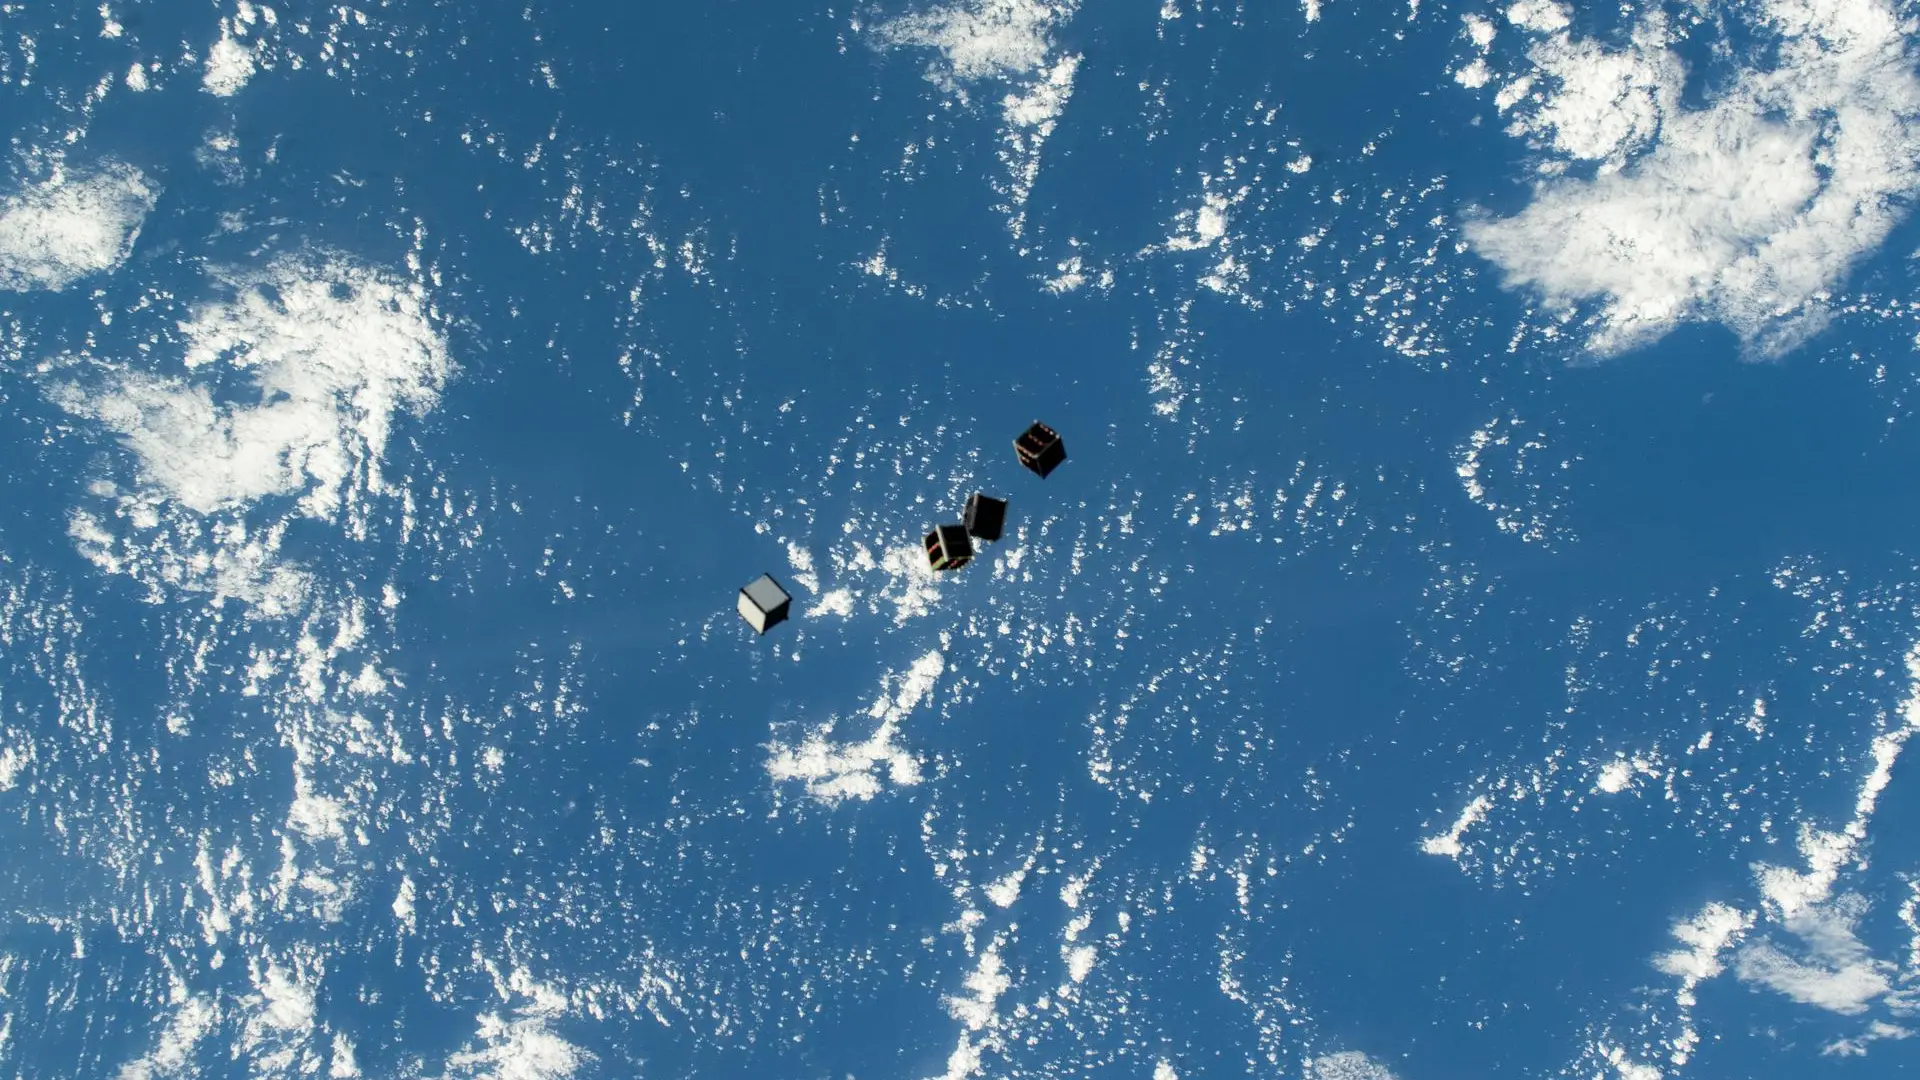
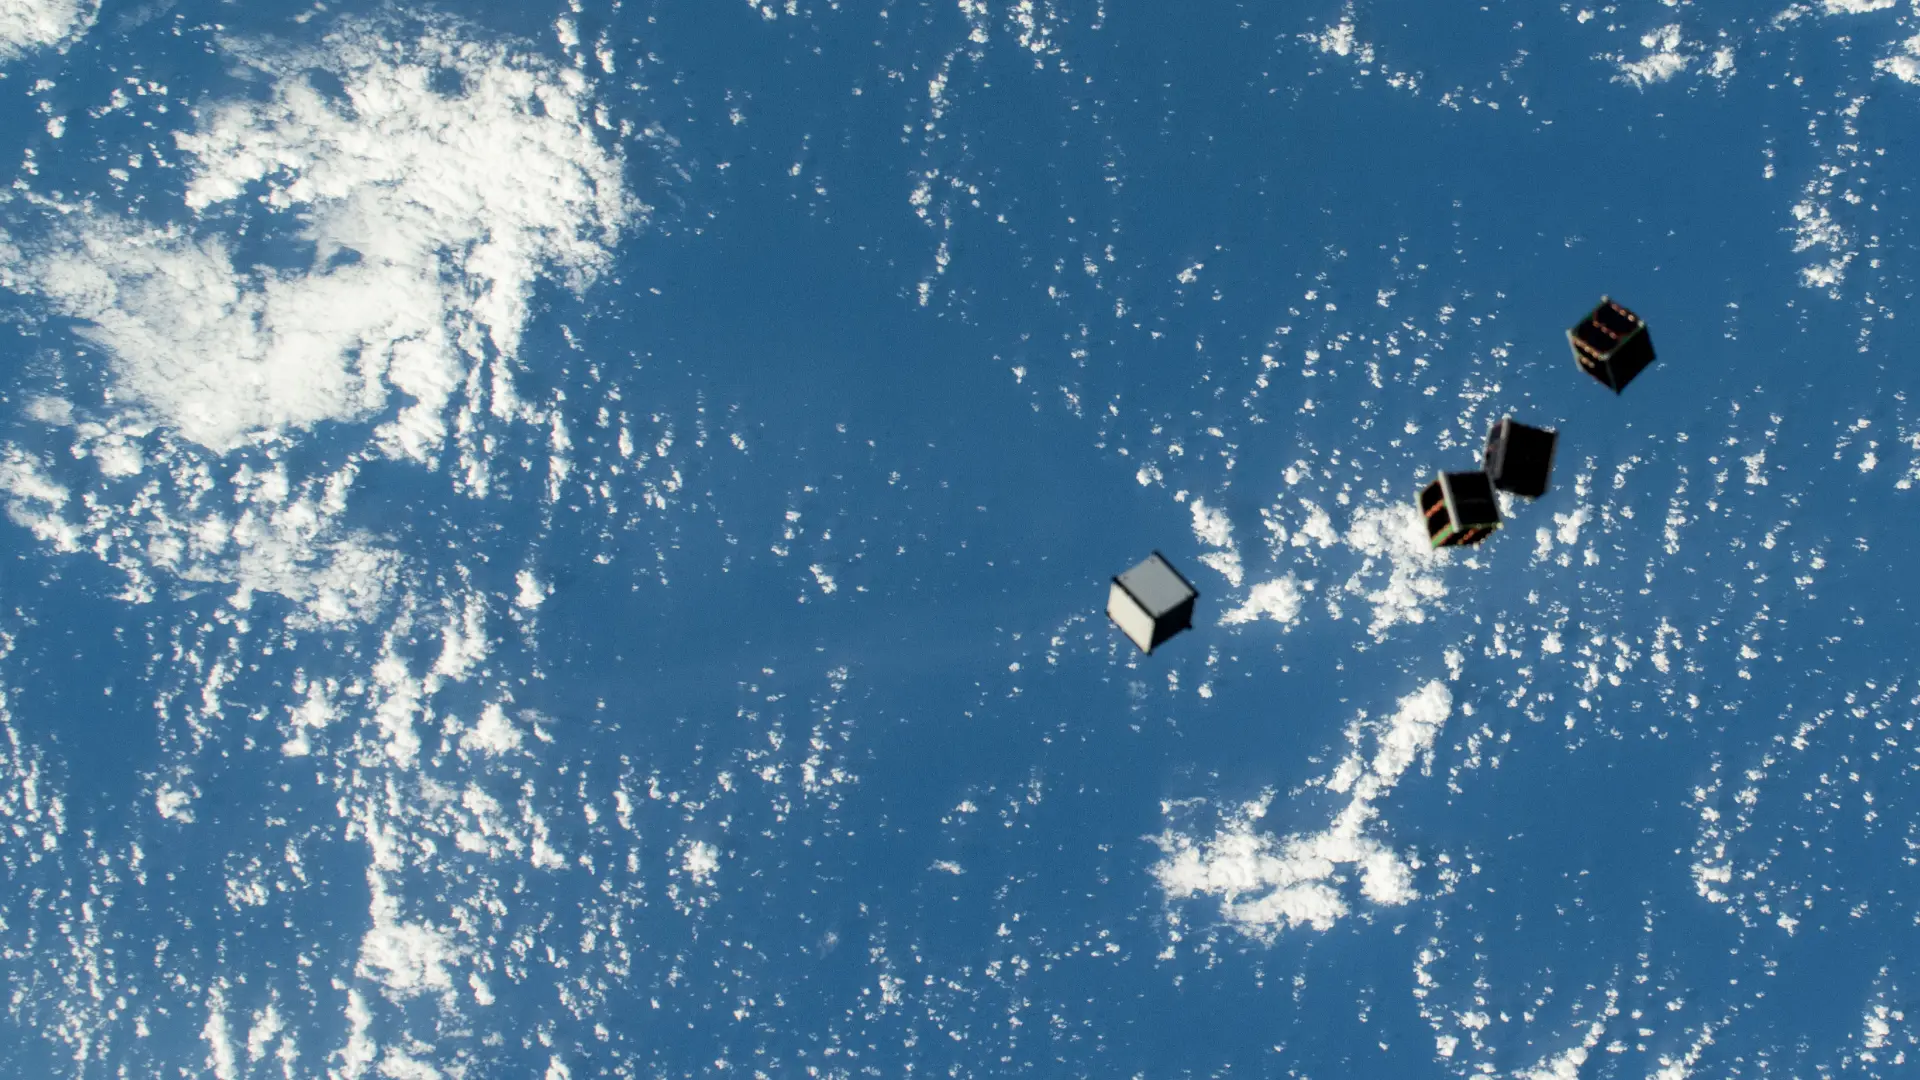
Construction: connect the sector to its solution; reframe aviation slides
- Construction page: Core challenges in construction management (contract
  compliance, human resources, deadlines, quality, delivery), the reader's
  situation as a question with the BIM and integrated project management
  answer, then Our digital solution and the challenges it tackles. The
  template supports the same story for other sectors.
- Aviation slides re-cropped so the drone, aircraft, CubeSats and space
  station sit right of the headline; taller hero, narrower headline

diff --git a/src/pages/sector.tsx b/src/pages/sector.tsx
@@ -19,9 +19,13 @@ export function SectorPage() {
 
       <section className="section" aria-labelledby="challenges-title">
         <div className="container sector-intro-layout">
-          <p className="sector-intro">{sector.intro}</p>
+          {/* Sectors with the solution story open on their challenges, not the intro. */}
+          {!sector.question && <p className="sector-intro">{sector.intro}</p>}
           <div>
-            <SectionHeading id="challenges-title" title="Your challenges" />
+            <SectionHeading
+              id="challenges-title"
+              title={sector.challengesTitle ?? "Your challenges"}
+            />
             <ul className="challenge-list">
               {sector.challenges.map((challenge) => (
                 <li key={challenge}>
@@ -31,8 +35,36 @@ export function SectorPage() {
               ))}
             </ul>
           </div>
+          {sector.question && (
+            <div className="sector-question">
+              <p className="sector-question-text">{sector.question}</p>
+              {sector.answer && <p className="sector-answer">{sector.answer}</p>}
+            </div>
+          )}
         </div>
       </section>
+
+      {sector.offering && (
+        <section className="section section-surface" aria-labelledby="offering-title">
+          <div className="container sector-offering">
+            <div>
+              <SectionHeading id="offering-title" title="Our digital solution" />
+              <p className="sector-offering-name">{sector.offering}</p>
+            </div>
+            <div>
+              <h3 className="sector-tackles-title">Challenges our solution tackles</h3>
+              <ul className="gain-list gain-list-large">
+                {sector.challenges.map((challenge) => (
+                  <li key={challenge}>
+                    <Check size={20} aria-hidden="true" />
+                    {challenge}
+                  </li>
+                ))}
+              </ul>
+            </div>
+          </div>
+        </section>
+      )}
 
       <section className="section section-surface" aria-labelledby="solutions-title">
         <div className="container">

diff --git a/tests/pages.spec.ts b/tests/pages.spec.ts
@@ -56,7 +56,8 @@ for (const sector of sectors) {
     const headings = await page.locator("main h1, main h2").allInnerTexts();
     const order = [
       sector.headline,
-      "Your challenges",
+      sector.challengesTitle ?? "Your challenges",
+      ...(sector.offering ? ["Our digital solution"] : []),
       "Solutions you can choose from",
       "Start small",
       "What you gain",
@@ -70,7 +71,7 @@ for (const sector of sectors) {
     }
     // The call to action is the last section on the page.
     expect(headings.at(-1)?.trim()).toBe(sector.cta.label);
-    await expect(page.locator(".challenge-list li")).toHaveCount(3);
+    await expect(page.locator(".challenge-list li")).toHaveCount(sector.challenges.length);
     await expect(page.locator(".solution-table tbody tr")).toHaveCount(sector.solutions.length);
     // The sector photo is the hero background; the hero holds only the bold sentence.
     const photo = page.locator(".page-hero-photo .hero-slide").first();
@@ -79,7 +80,15 @@ for (const sector of sectors) {
       .poll(() => photo.evaluate((img: HTMLImageElement) => img.complete && img.naturalWidth > 0))
       .toBe(true);
     await expect(page.locator(".page-hero-photo p, .page-hero-photo .page-hero-lead")).toHaveCount(0);
-    await expect(page.locator(".sector-intro")).toHaveText(sector.intro);
+    if (sector.question) {
+      // Solution story: question and answer, then the offering and what it tackles.
+      await expect(page.locator(".sector-question-text")).toHaveText(sector.question);
+      if (sector.answer) await expect(page.locator(".sector-answer")).toHaveText(sector.answer);
+      await expect(page.locator(".sector-offering-name")).toHaveText(sector.offering ?? "");
+      await expect(page.locator(".sector-offering .gain-list li")).toHaveText(sector.challenges);
+    } else {
+      await expect(page.locator(".sector-intro")).toHaveText(sector.intro);
+    }
     await expect(page.locator(".to-confirm")).toHaveCount(sector.cta.toConfirm ? 1 : 0);
 
     await page.getByRole("link", { name: sector.cta.action }).click();

diff --git a/src/content/sectors.ts b/src/content/sectors.ts
@@ -26,7 +26,14 @@ export type Sector = {
   family?: FamilyId;
   headline: string;
   intro: string;
-  challenges: [string, string, string];
+  challenges: string[];
+  // Optional "sector to solution" story (construction first; other sectors to follow):
+  // a named challenges heading, the reader's situation as a question, our answer, and
+  // the digital solution we provide. The challenges are repeated as what it tackles.
+  challengesTitle?: string;
+  question?: string;
+  answer?: string;
+  offering?: string;
   solutions: SectorSolution[];
   pilot: string;
   gains: [string, string, string];
@@ -272,11 +279,18 @@ export const sectors: Sector[] = [
     headline: "Project, cost and site management software for construction companies",
     intro:
       "Contractors, consultants and developers run many sites, many crews and large budgets at the same time. AndHub brings schedule, cost, materials and daily progress from every site into one view.",
+    challengesTitle: "Core challenges in construction management",
     challenges: [
-      "Projects slip and costs grow before anyone notices",
-      "Cement, steel and tools disappear between sites",
-      "Owners ask for progress and reports take days to prepare",
+      "Contract compliance",
+      "Human resource management",
+      "Project deadlines",
+      "Quality control",
+      "Project delivery",
     ],
+    question:
+      "Are you managing construction projects across the country, following milestones on each one and leading several project managers, with no way to measure progress?",
+    answer: "BIM and integrated project management are here to help you",
+    offering: "Construction management and project management system",
     solutions: [
       {
         name: "Construction management",

diff --git a/src/styles/pages.css b/src/styles/pages.css
@@ -118,7 +118,7 @@
 .page-hero-photo {
   display: flex;
   align-items: flex-end;
-  min-height: clamp(420px, 58vh, 620px);
+  min-height: clamp(480px, 70vh, 720px);
   background: var(--brand-navy);
 }
 .hero-slides {
@@ -132,6 +132,8 @@
   width: 100%;
   height: 100%;
   object-fit: cover;
+  /* Subjects sit right of centre, clear of the headline on the left. */
+  object-position: 70% 50%;
   opacity: 0;
   transition: opacity 1.4s ease;
 }
@@ -179,7 +181,7 @@
   padding-block: 120px 72px;
 }
 .page-hero-photo h1 {
-  max-width: 760px;
+  max-width: 640px;
   font-size: clamp(30px, 3.4vw, 48px);
   line-height: 1.2;
   letter-spacing: -1px;
@@ -474,5 +476,56 @@
   }
   .form-row {
     grid-template-columns: 1fr;
+  }
+}
+
+/* Sector-to-solution story (construction first) */
+.sector-question {
+  padding: 32px;
+  border-radius: 16px;
+  background: var(--accent);
+  border: 1px solid var(--border);
+}
+.sector-question-text {
+  font-size: clamp(20px, 2vw, 26px);
+  line-height: 1.45;
+  font-weight: 600;
+  letter-spacing: -0.4px;
+  color: var(--foreground);
+}
+.sector-answer {
+  margin-top: 16px;
+  font-size: 18px;
+  font-weight: 600;
+  color: var(--primary);
+}
+.dark .sector-answer {
+  color: #93c5fd;
+}
+.sector-offering {
+  display: grid;
+  grid-template-columns: 1fr 1fr;
+  gap: 56px;
+  align-items: start;
+}
+.sector-offering-name {
+  font-size: clamp(24px, 2.6vw, 34px);
+  line-height: 1.3;
+  font-weight: 700;
+  letter-spacing: -0.8px;
+  color: var(--foreground);
+}
+.sector-tackles-title {
+  font-size: 20px;
+  font-weight: 600;
+  margin-bottom: 8px;
+}
+@media (max-width: 800px) {
+  .sector-offering {
+    grid-template-columns: 1fr;
+    gap: 32px;
+  }
+  .sector-question {
+    padding: 24px;
   }
 }
